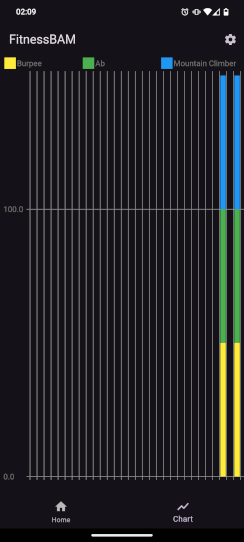
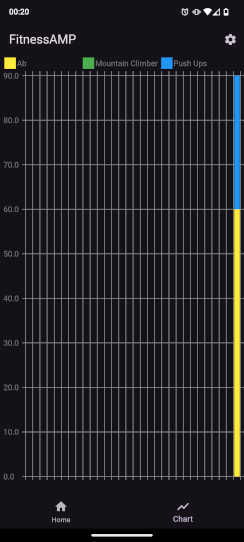
Change project name and update exercises

Changed region(s): [[0.0, 0.0886, 1.0, 0.8856], [0.2008, 0.059, 0.3156, 0.0886], [0.0287, 0.0, 0.1434, 0.0295]]

diff --git a/lib/main.dart b/lib/main.dart
@@ -1,6 +1,6 @@
 /*
- * FitnessBAM - a fitness app with 3 predefined exercises
- * Copyright (C) 2023  Rafael Bento
+ * FitnessAMP - a fitness app with 3 predefined exercises
+ * Copyright (C) 2023-2024  Rafael Bento
  *
  * This program is free software: you can redistribute it and/or modify
  * it under the terms of the GNU General Public License as published by
@@ -39,10 +39,10 @@ class MyApp extends StatelessWidget {
   @override
   Widget build(BuildContext context) {
     return MaterialApp(
-      title: 'FitnessBAM',
+      title: 'FitnessAMP',
       debugShowCheckedModeBanner: false,
       theme: ThemeData.dark(),
-      home: const MyHomePage(title: 'FitnessBAM'),
+      home: const MyHomePage(title: 'FitnessAMP'),
     );
   }
 }
@@ -69,8 +69,8 @@ class MyHomePageState extends State<MyHomePage> with WidgetsBindingObserver {
     activityNow = Activity(
       date: DateTime.now().toIso8601String().substring(0, 10),
       ab: 0,
-      burpee: 0,
       mountainClimber: 0,
+      pushUps: 0,
     );
     setupDatabase().then((_) {
       verifyDatabase();
@@ -82,7 +82,7 @@ class MyHomePageState extends State<MyHomePage> with WidgetsBindingObserver {
     getTextFromFile();
     LicenseRegistry.addLicense(() async* {
       yield LicenseEntryWithLineBreaks(
-        ["FitnessBAM"],
+        ["FitnessAMP"],
         fileData,
       );
     });
@@ -106,8 +106,8 @@ class MyHomePageState extends State<MyHomePage> with WidgetsBindingObserver {
         activityNow = Activity(
           date: DateTime.now().toIso8601String().substring(0, 10),
           ab: 0,
-          burpee: 0,
           mountainClimber: 0,
+	  pushUps: 0,
         );
       });
       insertActivity(activityNow);
@@ -118,9 +118,9 @@ class MyHomePageState extends State<MyHomePage> with WidgetsBindingObserver {
     final ByteData data1 =
         await rootBundle.load('images/exercise_abcrunch.webp');
     final ByteData data2 =
-        await rootBundle.load('images/exercise_4countburpee.webp');
-    final ByteData data3 =
         await rootBundle.load('images/exercise_mountainclimber.webp');
+    final ByteData data3 =
+        await rootBundle.load('images/exercise_pushups.webp');
     image1 = await loadImage(Uint8List.view(data1.buffer), 1);
     image2 = await loadImage(Uint8List.view(data2.buffer), 2);
     image3 = await loadImage(Uint8List.view(data3.buffer), 3);
@@ -160,8 +160,8 @@ class MyHomePageState extends State<MyHomePage> with WidgetsBindingObserver {
         await db.execute('''CREATE TABLE Activities (
           date TEXT PRIMARY KEY,
           ab INTEGER,
-          burpee INTEGER,
-          mountainClimber INTEGER
+          mountainClimber INTEGER,
+	  pushUps INTEGER
         )''');
       },
       version: 1,
@@ -172,7 +172,7 @@ class MyHomePageState extends State<MyHomePage> with WidgetsBindingObserver {
     Database? db = database;
 
     List<Map<String, dynamic>>? maps = await db?.query('Activities',
-        columns: ['date', 'ab', 'burpee', 'mountainClimber'],
+        columns: ['date', 'ab', 'mountainClimber', 'pushUps'],
         where: 'date = ?',
         whereArgs: [activityNow?.date]);
 
@@ -180,8 +180,8 @@ class MyHomePageState extends State<MyHomePage> with WidgetsBindingObserver {
       if (maps!.isNotEmpty) {
         setState(() {
           activityNow?.ab = maps.first['ab'];
-          activityNow?.burpee = maps.first['burpee'];
           activityNow?.mountainClimber = maps.first['mountainClimber'];
+	  activityNow?.pushUps = maps.first['pushUps'];
         });
       } else if (maps.isEmpty) {
         await insertActivity(activityNow);
@@ -200,12 +200,12 @@ class MyHomePageState extends State<MyHomePage> with WidgetsBindingObserver {
   }
 
   Future<void> updateActivity(
-    int iAb, int iBurpee, int iMountainClimber) async {
+    int iAb, int iMountainClimber, int iPushUps) async {
     final db = database;
     setState(() {
       activityNow?.ab += iAb;
-      activityNow?.burpee += iBurpee;
       activityNow?.mountainClimber += iMountainClimber;
+      activityNow?.pushUps += iPushUps;
     });
 
     await db?.update(
@@ -236,8 +236,8 @@ class MyHomePageState extends State<MyHomePage> with WidgetsBindingObserver {
   void _showAboutDialog() async {
     showAboutDialog(
         context: context,
-        applicationName: "FitnessBAM",
-        applicationVersion: "0.1.0",
+        applicationName: "FitnessAMP",
+        applicationVersion: "0.3.0",
         applicationIcon: const SizedBox(
           width: 48,
           height: 48,
@@ -255,8 +255,8 @@ class MyHomePageState extends State<MyHomePage> with WidgetsBindingObserver {
     final Database? db = database;
     await db?.delete('Activities');
     activityNow?.ab = 0;
-    activityNow?.burpee = 0;
     activityNow?.mountainClimber = 0;
+    activityNow?.pushUps = 0;
     await verifyDatabase();
   }
 
@@ -280,7 +280,7 @@ class MyHomePageState extends State<MyHomePage> with WidgetsBindingObserver {
                   ),
                   ListTile(
                     leading: const Icon(Icons.info),
-                    title: const Text('About FitnessBAM'),
+                    title: const Text('About FitnessAMP'),
                     onTap: _showAboutDialog,
                   ),
                 ],
@@ -324,8 +324,8 @@ class MyHomePageState extends State<MyHomePage> with WidgetsBindingObserver {
         this.expectedList = [...list!];
     });
     List<double> abCounter = [];
-    List<double> burpeeCounter = [];
     List<double> mountainClimberCounter = [];
+    List<double> pushUpsCounter = [];
     if (expectedList != null && expectedList!.length != null) {
       if (expectedList!.length > 30) {
         while (expectedList!.length > 30) {
@@ -334,13 +334,13 @@ class MyHomePageState extends State<MyHomePage> with WidgetsBindingObserver {
       }
       else if (expectedList!.length < 30) {
         while (expectedList!.length < 30) {
-          expectedList!.insert(0, {'date': "", 'ab': 0, 'burpee': 0, 'mountainClimber': 0});
+          expectedList!.insert(0, {'date': "", 'ab': 0, 'mountainClimber': 0, 'pushUps': 0});
         }
       }
       expectedList!.forEach((element) => {
         abCounter.add(element["ab"].toDouble()),
-        burpeeCounter.add(element["burpee"].toDouble()),
         mountainClimberCounter.add(element["mountainClimber"].toDouble()),
+	pushUpsCounter.add(element["pushUps"].toDouble()),
       });
     }
     else {
@@ -348,30 +348,30 @@ class MyHomePageState extends State<MyHomePage> with WidgetsBindingObserver {
 	0.0, 0.0, 0.0, 0.0, 0.0, 0.0, 0.0, 0.0, 0.0, 0.0,
 	0.0, 0.0, 0.0, 0.0, 0.0, 0.0, 0.0, 0.0, 0.0, 0.0];
 
-      burpeeCounter = [0.0, 0.0, 0.0, 0.0, 0.0, 0.0, 0.0, 0.0, 0.0, 0.0,
-	0.0, 0.0, 7.0, 0.0, 0.0, 0.0, 0.0, 0.0, 0.0, 0.0,
-	0.0, 0.0, 0.0, 0.0, 0.0, 0.0, 0.0, 0.0, 0.0, 0.0];
-
       mountainClimberCounter = [0.0, 0.0, 0.0, 0.0, 0.0, 0.0, 0.0, 0.0, 0.0, 0.0,
 	0.0, 0.0, 0.0, 0.0, 0.0, 0.0, 0.0, 0.0, 0.0, 0.0,
 	0.0, 0.0, 50.0, 0.0, 0.0, 0.0, 0.0, 0.0, 0.0, 0.0];
+
+      pushUpsCounter = [0.0, 0.0, 0.0, 0.0, 0.0, 0.0, 0.0, 0.0, 0.0, 0.0,
+	0.0, 0.0, 7.0, 0.0, 0.0, 0.0, 0.0, 0.0, 0.0, 0.0,
+	0.0, 0.0, 0.0, 0.0, 0.0, 0.0, 0.0, 0.0, 0.0, 0.0];
     }
     LabelLayoutStrategy? xContainerLabelLayoutStrategy;
     ChartData chartData;
     ChartOptions chartOptions = const ChartOptions();
     chartData = ChartData(
       dataRows: [
-        burpeeCounter,
         abCounter,
         mountainClimberCounter,
+	pushUpsCounter,
       ],
       xUserLabels: const ['', '', '' ,'', '', '', '', '', '', '',
 	'', '', '' ,'', '', '', '', '', '', '',
 	'', '', '' ,'', '', '', '', '', '', ''],
       dataRowsLegends: const [
-        'Burpee',
         'Ab',
         'Mountain Climber',
+        'Push Ups',
       ],
       chartOptions: chartOptions,
     );
@@ -414,22 +414,22 @@ class MyHomePageState extends State<MyHomePage> with WidgetsBindingObserver {
                 children: <Widget>[
                   GestureDetector(
                     onTap: () {
-                      updateActivity(0, 10, 0);
+                      updateActivity(10, 0, 0);
                     },
                     child: _buildActivityCircle(
                         MediaQuery.of(context).size.width * 0.25,
-			activityNow?.burpee,
-			image2,
+			activityNow?.ab,
+			image1,
 		    ),
                   ),
                   Padding(
                     padding: const EdgeInsets.only(top: 10),
-                    child: Text('${activityNow?.burpee}/50',
+                    child: Text('${activityNow?.ab}/50',
                         style: const TextStyle(fontSize: 32.0)),
                   ),
                   const Padding(
                     padding: EdgeInsets.only(top: 10),
-                    child: Text('Burpee'),
+                    child: Text('Ab'),
                   ),
                 ],
               ),
@@ -443,19 +443,19 @@ class MyHomePageState extends State<MyHomePage> with WidgetsBindingObserver {
                 children: <Widget>[
                   GestureDetector(
                     onTap: () {
-                      updateActivity(10, 0, 0);
+                      updateActivity(0, 10, 0);
                     },
                     child: _buildActivityCircle(
-                        MediaQuery.of(context).size.width * 0.25, activityNow?.ab, image1),
+                        MediaQuery.of(context).size.width * 0.25, activityNow?.mountainClimber, image2),
                   ),
                   Padding(
                     padding: const EdgeInsets.only(top: 10),
-                    child: Text("${activityNow?.ab}/50",
+                    child: Text("${activityNow?.mountainClimber}/50",
                         style: const TextStyle(fontSize: 32.0)),
                   ),
                   const Padding(
                     padding: EdgeInsets.only(top: 10),
-                    child: Text('Ab'),
+                    child: Text('Mountain Climber'),
                   ),
                 ],
               ),
@@ -471,16 +471,16 @@ class MyHomePageState extends State<MyHomePage> with WidgetsBindingObserver {
                       updateActivity(0, 0, 10);
                     },
                     child: _buildActivityCircle(
-                        MediaQuery.of(context).size.width * 0.25, activityNow?.mountainClimber, image3),
+                        MediaQuery.of(context).size.width * 0.25, activityNow?.pushUps, image3),
                   ),
                   Padding(
                     padding: const EdgeInsets.only(top: 10),
-                    child: Text('${activityNow?.mountainClimber}/50',
+                    child: Text('${activityNow?.pushUps}/50',
                         style: const TextStyle(fontSize: 32.0)),
                   ),
                   const Padding(
                     padding: EdgeInsets.only(top: 10),
-                    child: Text('Mountain Climber'),
+                    child: Text('Push Ups'),
                   ),
                 ],
               ),

diff --git a/lib/activity.dart b/lib/activity.dart
@@ -1,6 +1,6 @@
 /*
- * FitnessBAM - a fitness app with 3 pre-defined exercises
- * Copyright (C) 2023  Rafael Bento
+ * FitnessAMP - a fitness app with 3 pre-defined exercises
+ * Copyright (C) 2023-2024  Rafael Bento
  *
  * This program is free software: you can redistribute it and/or modify
  * it under the terms of the GNU General Public License as published by
@@ -19,18 +19,18 @@
 class Activity {
   final String date;
   int ab;
-  int burpee;
   int mountainClimber;
+  int pushUps;
 
   Activity(
-      {this.date = "", this.ab = 0, this.burpee = 0, this.mountainClimber = 0});
+      {this.date = "", this.ab = 0, this.mountainClimber = 0, this.pushUps = 0});
 
   Map<String, dynamic> toMap() {
     return {
       'date': date,
       'ab': ab,
-      'burpee': burpee,
       'mountainClimber': mountainClimber,
+      'pushUps': pushUps,
     };
   }
 }

diff --git a/lib/activity_circle.dart b/lib/activity_circle.dart
@@ -1,6 +1,6 @@
 /*
- * FitnessBAM - a fitness app with 3 pre-defined exercises
- * Copyright (C) 2023  Rafael Bento
+ * FitnessAMP - a fitness app with 3 pre-defined exercises
+ * Copyright (C) 2023-2024  Rafael Bento
  *
  * This program is free software: you can redistribute it and/or modify
  * it under the terms of the GNU General Public License as published by

diff --git a/android/app/src/main/kotlin/com/example/fitnessamp/MainActivity.kt b/android/app/src/main/kotlin/com/example/fitnessamp/MainActivity.kt
@@ -1,4 +1,4 @@
-package com.example.fitnessbam
+package com.example.fitnessamp
 
 import io.flutter.embedding.android.FlutterActivity
 

diff --git a/README.md b/README.md
@@ -1,6 +1,6 @@
-# FitnessBAM
+# FitnessAMP
 
-A fitness app with burpee, ab and mountain climber as exercises. Exercise count
+A fitness app with ab, mountain climber and push ups as exercises. Exercise count
 automatically resets every day.
 
 # Screens
@@ -11,11 +11,6 @@ automatically resets every day.
 
 All images are released under the CC BY-SA 4.0 license.
 
-The **exercise_4countburpee.webp** file was obtained from [Feeel](https://gitlab.com/enjoyingfoss/feeel) app source
-code repository. Licensed under the [CC BY-SA 4.0 license](https://creativecommons.org/licenses/by-sa/4.0/).
-Derived from a triangulation by kettenfett, which was derived from ["The 6-Minute Sweat Workout: Burpee"](https://www.youtube.com/watch?v=sHLu6-liUL0)
-by ExperienceLifeMag on YouTube, published under the [CC BY 3.0 license](https://creativecommons.org/licenses/by/3.0/legalcode).
-
 The **exercise_abcrunch.webp** file was obtained from [Feeel](https://gitlab.com/enjoyingfoss/feeel) app source code
 repository. Licensed under the [CC BY-SA 4.0 license](https://creativecommons.org/licenses/by-sa/4.0/).
 Derived from bwanderd's [\"26 Abs 1\"](https://www.flickr.com/photos/86598533@N04/8252254965),
@@ -25,6 +20,10 @@ The **exercise_mountainclimber.webp** file was obtained from [Feel](https://gitl
 source code repository. Licensed under the [CC BY-SA 4.0 license](https://creativecommons.org/licenses/by-sa/4.0/).
 Derived from a triangulation by kettenfett, which was derived from ["Mountain Climber"](https://vimeo.com/149362946)
 by Dr. Greg Wells on YouTube, published under the [CC BY 3.0 license](https://creativecommons.org/licenses/by/3.0/legalcode).
+
+The **exercise_pushups.webp** file was obtained from [Feel](https://gitlab.com/enjoyingfoss/feeel) app
+source code repository. Licensed under the [CC BY-SA 4.0 license](https://creativecommons.org/licenses/by-sa/4.0/).
+Derived from Keiji Yoshiki's [push-up photo](https://www.pexels.com/photo/adult-athlete-body-exercise-176782/), published under the [CC0 license](https://creativecommons.org/publicdomain/zero/1.0/).
 
 # To Do
 
